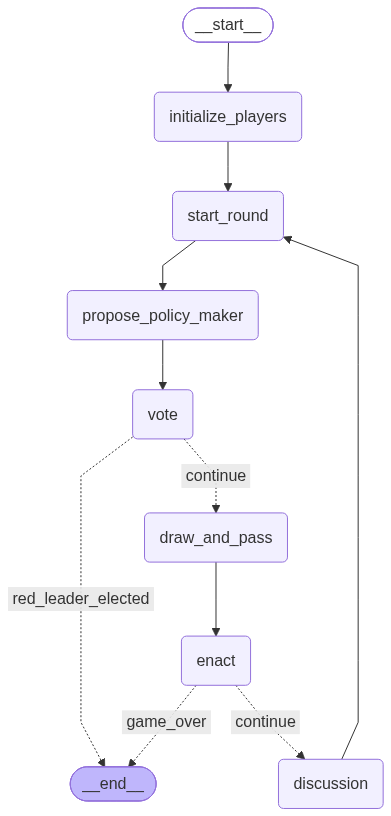
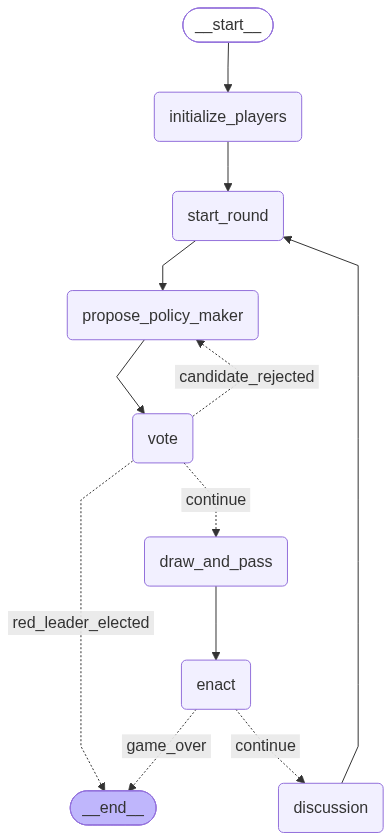
oops - forgot the candidate rejection loop

diff --git a/social_deduction/game.py b/social_deduction/game.py
@@ -121,8 +121,12 @@ class Game:
         builder.add_edge("propose_policy_maker", "vote")
         builder.add_conditional_edges(
             "vote",
-            self.is_red_leader_elected,
-            {"red_leader_elected": END, "continue": "draw_and_pass"},
+            self.eval_election_results,
+            {
+                "red_leader_elected": END,
+                "candidate_rejected": "propose_policy_maker",
+                "continue": "draw_and_pass",
+            },
         )
         builder.add_edge("draw_and_pass", "enact")
         builder.add_conditional_edges(
@@ -232,10 +236,10 @@ class Game:
         """Run an ordered discussion with role-appropriate message visibility."""
         raise NotImplementedError
 
-    def is_red_leader_elected(
+    def eval_election_results(
         self, state: GameState
-    ) -> Literal["red_leader_elected", "continue"]:
-        """Check whether electing the red leader triggers a red victory."""
+    ) -> Literal["red_leader_elected", "candidate_rejected", "continue"]:
+        """Route to a new nomination, policy selection, or red-leader victory."""
         raise NotImplementedError
 
     def is_game_over(self, state: GameState) -> Literal["game_over", "continue"]:
